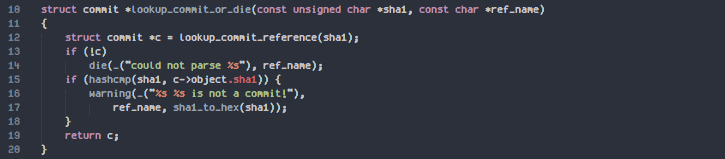
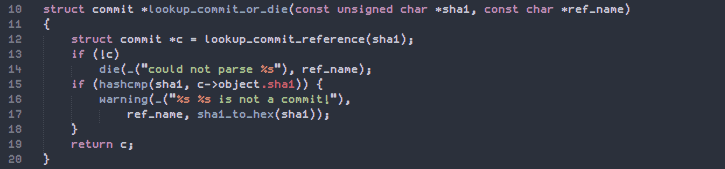
added new image for pixel carnage at proper size and without AA

diff --git a/ABOUT.md b/ABOUT.md
@@ -26,4 +26,4 @@ I have made every effort to identify and include all licenses associated with th
 
 ## Gallery Image Settings
 
-Gallery images were generated with code in the Sublime Text 3 editor (OS X version) using a font size of 14 and the `subpixel_antialias` font_options setting.
+Gallery images were generated with code in the Sublime Text 3 editor (OS X version) using a font size of 14 and the `subpixel_antialias` font_options setting.  Bitmap fonts were generated without the `subpixel_antialias` setting at font specific recommended sizes.

diff --git a/README.md b/README.md
@@ -169,7 +169,7 @@
 
 ### [PixelCarnage Mono](fonts/pixel-carnage)
 
-![PixelCarnage Mono](images/pixel-carnage.png)
+![PixelCarnage Mono](images/pixel-carnage-noaa.png)
 
 
 ### [ProFontWindows](fonts/pro-font-windows)
